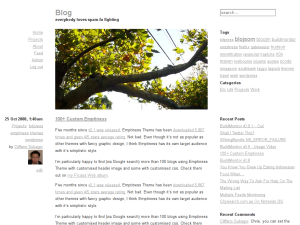
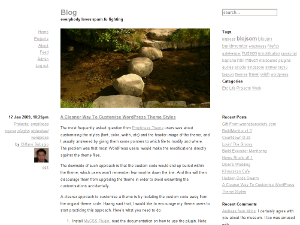
Changed header image and screenshot. Bumped version up to 1.0 .

diff --git a/emptiness/style.css b/emptiness/style.css
@@ -2,7 +2,7 @@
 Theme Name: Emptiness
 Theme URI: http://code.google.com/p/bitpress/wiki/Emptiness
 Description: A minimalist theme with a white background, containing mostly texts with a header image. Simple and clean, with very lightweight HTML and CSS.
-Version: 0.9
+Version: 1.0
 Author: Cliffano Subagio
 Author URI: http://blog.qoqoa.com
 Tags: white, light, three-columns, fixed-width, custom-header, right-sidebar, microformats 
